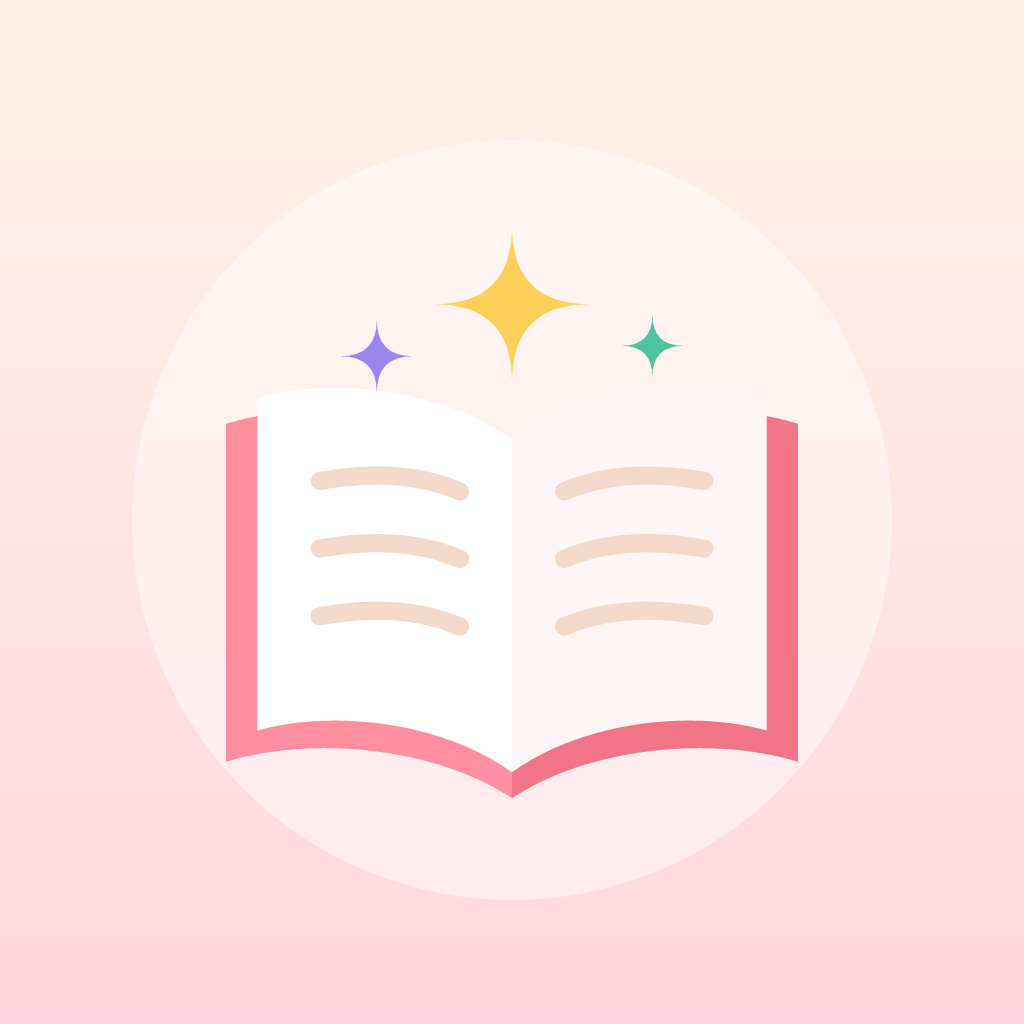
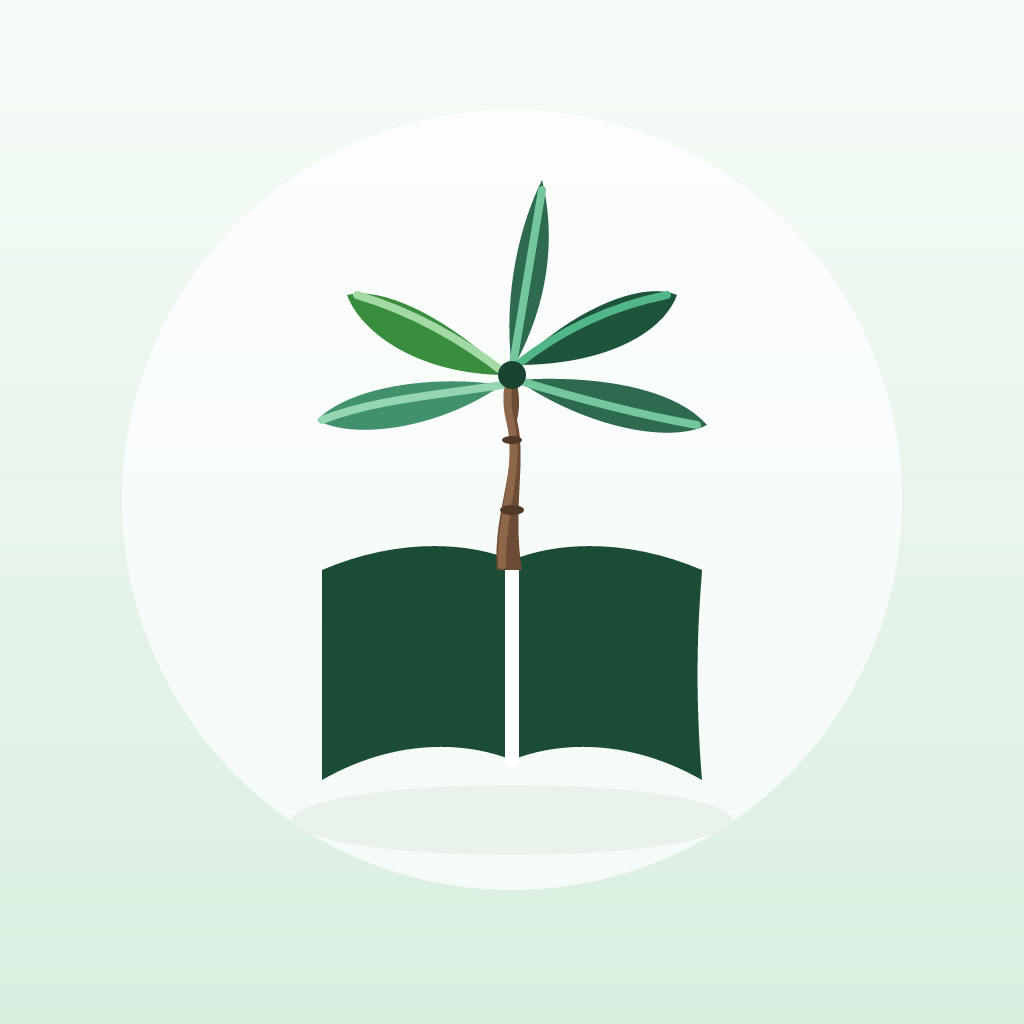
Update design and add cover search to privacy policy

diff --git a/privacy.html b/privacy.html
@@ -16,7 +16,7 @@
 
   <section id="ja">
     <h2>プライバシーポリシー</h2>
-    <p class="note">施行日：2026年10月30日</p>
+    <p class="note">施行日：2026年11月13日（2026年10月30日の版から、表紙の検索について追記）</p>
     <p>Totonou Book（以下「本アプリ」）は、個人情報を収集せず、開発者のサーバーに保存せず、第三者に提供しません。</p>
     <h3>端末の中に保存するデータ</h3>
     <p>登録した本（書名・著者・表紙の画像・読書の状態・日付・スタンプ・感想）は、お使いの iPhone の中だけに保存します。開発者に送られることはありません。アプリを削除すると、これらのデータも削除されます。</p>
@@ -28,6 +28,7 @@
       <li>openBD（<a href="https://openbd.jp/">openbd.jp</a>）… 日本の本の情報と表紙の画像</li>
       <li>Open Library（<a href="https://openlibrary.org/">openlibrary.org</a>）… 海外の本の情報と表紙の画像</li>
     </ul>
+    <p>上のサービスで表紙の画像が見つからなかったときは、表紙を探すために、ISBN と書名・最初の著者名を、開発者が用意した中継サーバー（Microsoft Azure 上）に送ります。中継サーバーは Google Books（<a href="https://books.google.com/">books.google.com</a>）で表紙を探し、見つかった画像の場所だけを返します。中継サーバーは、送られた内容や IP アドレスを記録として保存しません（同じ本を何度も調べないよう、本と表紙の対応だけを一時的に覚えます）。表紙の画像そのものは、お使いの端末が Google から直接取得します。</p>
     <h3>バックアップ</h3>
     <p>バックアップのファイルは、あなたが「書き出す」を押したときだけ作られ、あなたが選んだ場所（iCloud Drive など）に保存されます。開発者には送られません。</p>
     <h3>追跡・広告・分析</h3>
@@ -42,7 +43,7 @@
 
   <section id="en" lang="en">
     <h2>Privacy Policy</h2>
-    <p class="note">Effective date: October 30, 2026</p>
+    <p class="note">Effective date: November 13, 2026 (updated from the October 30, 2026 version to describe the cover search)</p>
     <p>Totonou Book (“the app”) does not collect personal information, does not store it on the developer's servers, and does not share it with anyone.</p>
     <h3>Data stored on your device</h3>
     <p>The books you add (title, author, cover image, reading status, dates, stamps and reviews) are saved only on your iPhone. They are never sent to the developer. Deleting the app deletes this data.</p>
@@ -54,6 +55,7 @@
       <li>openBD (<a href="https://openbd.jp/">openbd.jp</a>) – details and covers of Japanese books</li>
       <li>Open Library (<a href="https://openlibrary.org/">openlibrary.org</a>) – details and covers of other books</li>
     </ul>
+    <p>If no cover image is found there, the app sends the ISBN, the title and the first author's name to a relay server run by the developer (on Microsoft Azure) to look for a cover. The relay server searches Google Books (<a href="https://books.google.com/">books.google.com</a>) and returns only the location of the cover image it finds. It does not store what you send or your IP address in any log (it only keeps a temporary list of books and their covers, so the same book is not looked up again). Your device then downloads the cover image directly from Google.</p>
     <h3>Backups</h3>
     <p>A backup file is created only when you tap “書き出す” (Export), and it is saved where you choose (such as iCloud Drive). It is never sent to the developer.</p>
     <h3>No tracking, ads or analytics</h3>

diff --git a/style.css b/style.css
@@ -1,7 +1,7 @@
-:root { --bg: #fff6ee; --card: #ffffff; --text: #4a3b40; --sub: #a08f94; --accent: #ff7f8e; --line: #f3d9c9; }
+:root { --bg: #ffffff; --card: #effdf1; --text: #143625; --sub: #587a66; --accent: #2d6a4f; --line: #d0ded2; }
 * { box-sizing: border-box; }
 body { margin: 0; background: var(--bg); color: var(--text);
-  font-family: -apple-system, "Hiragino Maru Gothic ProN", "Hiragino Sans", "Noto Sans JP", sans-serif; line-height: 1.8; }
+  font-family: -apple-system, "Hiragino Sans", "Noto Sans JP", sans-serif; line-height: 1.8; }
 main { max-width: 680px; margin: 0 auto; padding: 40px 16px 64px; }
 header { display: flex; align-items: center; gap: 14px; margin-bottom: 8px; }
 .icon { width: 56px; height: 56px; border-radius: 13px; flex: none; }
